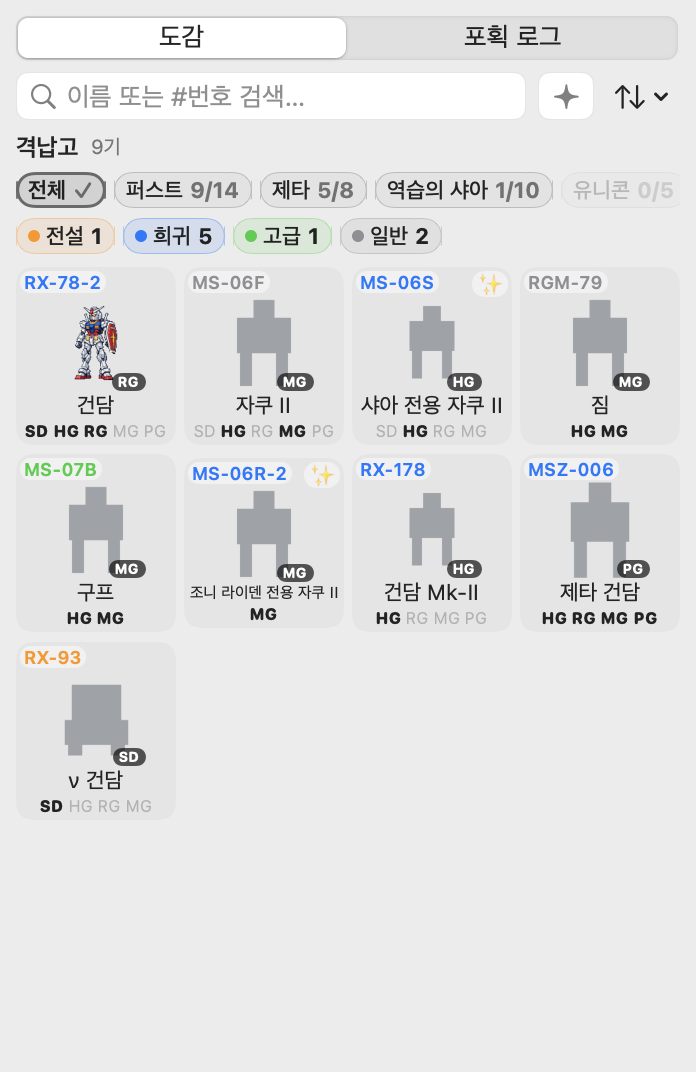
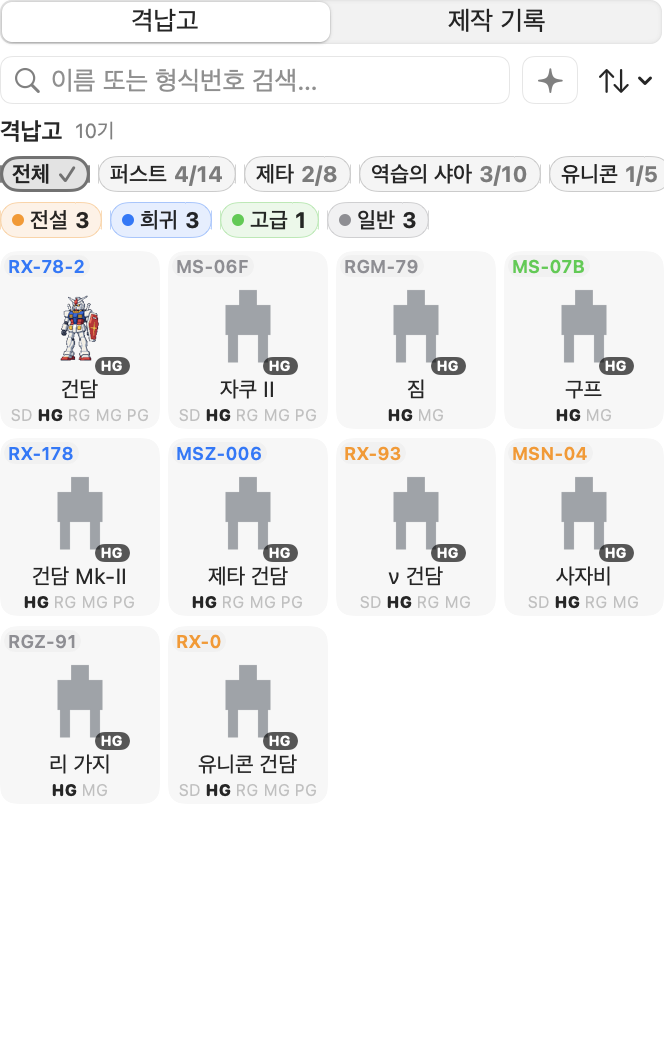
chore(gunpla): refresh test gate, README note and hangar image
- test-gate.sh logic core: drop deleted Pokémon files, add the Gunpla
  pure-logic files and CompanionStore+Hangar.
- Delete the orphan Core/CollectionWeight.swift.
- README (en/ko/ja): point usage tracking at the upstream README.
- Re-render docs/gunpla/images/gunpla-hangar.png with current copy
  (CollectionReadabilityRenderingTests, ko grid).

Changed region(s): [[0.0, 0.0, 0.994, 0.7692]]

diff --git a/README.ja.md b/README.ja.md
@@ -4,7 +4,7 @@
 
 すでに使っている AI コーディングトークン（Claude Code・Codex・Gemini CLI など）を、ガンプラ（ガンダムのプラモデル）の制作進行度に変える macOS メニューバーアプリです。[chattymin/PokeTokenBar](https://github.com/chattymin/PokeTokenBar) をガンプラテーマにしたフォークです。
 
-> 開発中: ガンプラ機能は実装中です。トークン使用量の追跡は元プロジェクトから引き継いだ機能です。
+> 開発中: ガンプラ機能は実装中です。トークン使用量の追跡は元プロジェクトから引き継いだ機能です（対応ツールは[元の README](https://github.com/chattymin/PokeTokenBar#readme) を参照）。
 
 ## 動作環境
 

diff --git a/README.ko.md b/README.ko.md
@@ -4,7 +4,7 @@
 
 이미 쓰고 있는 AI 코딩 토큰(Claude Code, Codex, Gemini CLI 등)을 건프라(건담 플라스틱 모델) 제작 진행도로 바꿔 주는 macOS 메뉴바 앱입니다. [chattymin/PokeTokenBar](https://github.com/chattymin/PokeTokenBar)를 건프라 테마로 포크한 프로젝트입니다.
 
-> 개발 중: 건프라 기능은 아직 구현 중이며, 토큰 사용량 추적은 원본 프로젝트에서 그대로 가져온 기능입니다.
+> 개발 중: 건프라 기능은 아직 구현 중이며, 토큰 사용량 추적은 원본 프로젝트에서 그대로 가져온 기능입니다(지원 도구는 [원본 README](https://github.com/chattymin/PokeTokenBar#readme) 참고).
 
 ## 요구 사항
 

diff --git a/README.md b/README.md
@@ -4,7 +4,7 @@
 
 A macOS menu-bar app that turns the AI coding tokens you already spend (Claude Code, Codex, Gemini CLI, and more) into Gunpla (plastic model kit) progress. It is a Gunpla-themed fork of [chattymin/PokeTokenBar](https://github.com/chattymin/PokeTokenBar).
 
-> Work in progress: the Gunpla features are still under development. The usage tracking below is inherited from the original project.
+> Work in progress: the Gunpla features are still under development. Token usage tracking is inherited from the original project; see the [upstream README](https://github.com/chattymin/PokeTokenBar#readme) for the supported tools.
 
 ## Requirements
 
